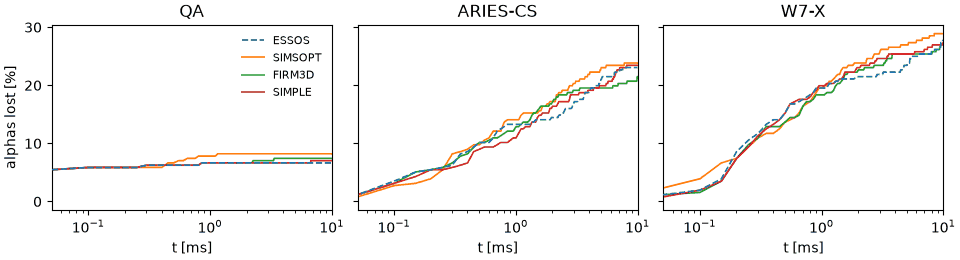
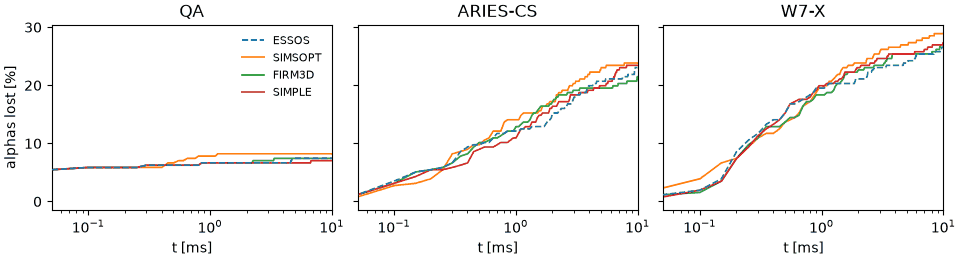
Cross-code benchmark with the Boozer angle table

diff --git a/README.md b/README.md
@@ -206,22 +206,22 @@ and field set-up excluded. Run with
 
 | Equilibrium | Code | Method | Run time | Lost | Same fate as ESSOS | max \|E/E0 - 1\| |
 |---|---|---|---|---|---|---|
-| QA | ESSOS `trace_boozer` | Dopri8, `dt = 1e-7 s` | 173 s | 6.6 ± 1.6% | - | 2e-10 |
-| | SIMSOPT | RK45, tol 1e-9, `gc_noK` | 17 s | 8.2% | 85.2% | 5e-5 |
-| | FIRM3D | RK45, tol 1e-9, `gc_noK` | 50 s | 7.4% | 99.2% | 4e-5 |
-| | SIMPLE | symplectic, defaults | 17 s | 7.0% | 99.6% | not reported |
-| ARIES-CS | ESSOS `trace_boozer` | Dopri8, `dt = 1e-7 s` | 586 s | 23.0 ± 2.6% | - | 3e-5 |
-| | SIMSOPT | RK45, tol 1e-9, `gc_noK` | 64 s | 23.8% | 89.1% | 1e-4 |
-| | FIRM3D | RK45, tol 1e-9, `gc_noK` | 154 s | 21.5% | 94.5% | 5e-3 |
-| | SIMPLE | symplectic, defaults | 24 s | 23.4% | 94.9% | not reported |
-| W7-X | ESSOS `trace_boozer` | Dopri8, `dt = 1e-7 s` | 714 s | 27.7 ± 2.8% | - | 9e-5 |
-| | SIMSOPT | RK45, tol 1e-9, `gc_noK` | 111 s | 28.9% | 97.3% | 1e-3 |
-| | FIRM3D | RK45, tol 1e-9, `gc_noK` | 195 s | 27.0% | 96.1% | 3e-3 |
-| | SIMPLE | symplectic, defaults | 194 s | 27.3% | 96.5% | not reported |
+| QA | ESSOS `trace_boozer` | Dopri8, `dt = 1e-7 s` | 42 s | 7.4 ± 1.6% | - | 1e-5 |
+| | SIMSOPT | RK45, tol 1e-9, `gc_noK` | 19 s | 8.2% | 85.2% | 5e-5 |
+| | FIRM3D | RK45, tol 1e-9, `gc_noK` | 53 s | 7.4% | 99.2% | 4e-5 |
+| | SIMPLE | symplectic, defaults | 18 s | 7.0% | 98.8% | not reported |
+| ARIES-CS | ESSOS `trace_boozer` | Dopri8, `dt = 1e-7 s` | 44 s | 23.0 ± 2.6% | - | 1e-5 |
+| | SIMSOPT | RK45, tol 1e-9, `gc_noK` | 69 s | 23.8% | 90.6% | 1e-4 |
+| | FIRM3D | RK45, tol 1e-9, `gc_noK` | 163 s | 21.5% | 94.5% | 5e-3 |
+| | SIMPLE | symplectic, defaults | 25 s | 23.4% | 95.7% | not reported |
+| W7-X | ESSOS `trace_boozer` | Dopri8, `dt = 1e-7 s` | 44 s | 26.6 ± 2.8% | - | 9e-5 |
+| | SIMSOPT | RK45, tol 1e-9, `gc_noK` | 118 s | 28.9% | 95.3% | 1e-3 |
+| | FIRM3D | RK45, tol 1e-9, `gc_noK` | 212 s | 27.0% | 95.7% | 3e-3 |
+| | SIMPLE | symplectic, defaults | 205 s | 27.3% | 94.5% | not reported |
 
 ESSOS, SIMSOPT and FIRM3D use the same 32x32 `booz_xform` spectrum (ESSOS
-keeps modes above its default `1e-6` of `B00`); SIMPLE reads the `wout`
-directly. ± is the binomial standard error.
+keeps modes above its default `1e-6` of `B00` and evaluates them from a
+table in the Boozer angles); SIMPLE reads the `wout` directly. ± is the binomial standard error.
 
 ## Tracing notes
 
